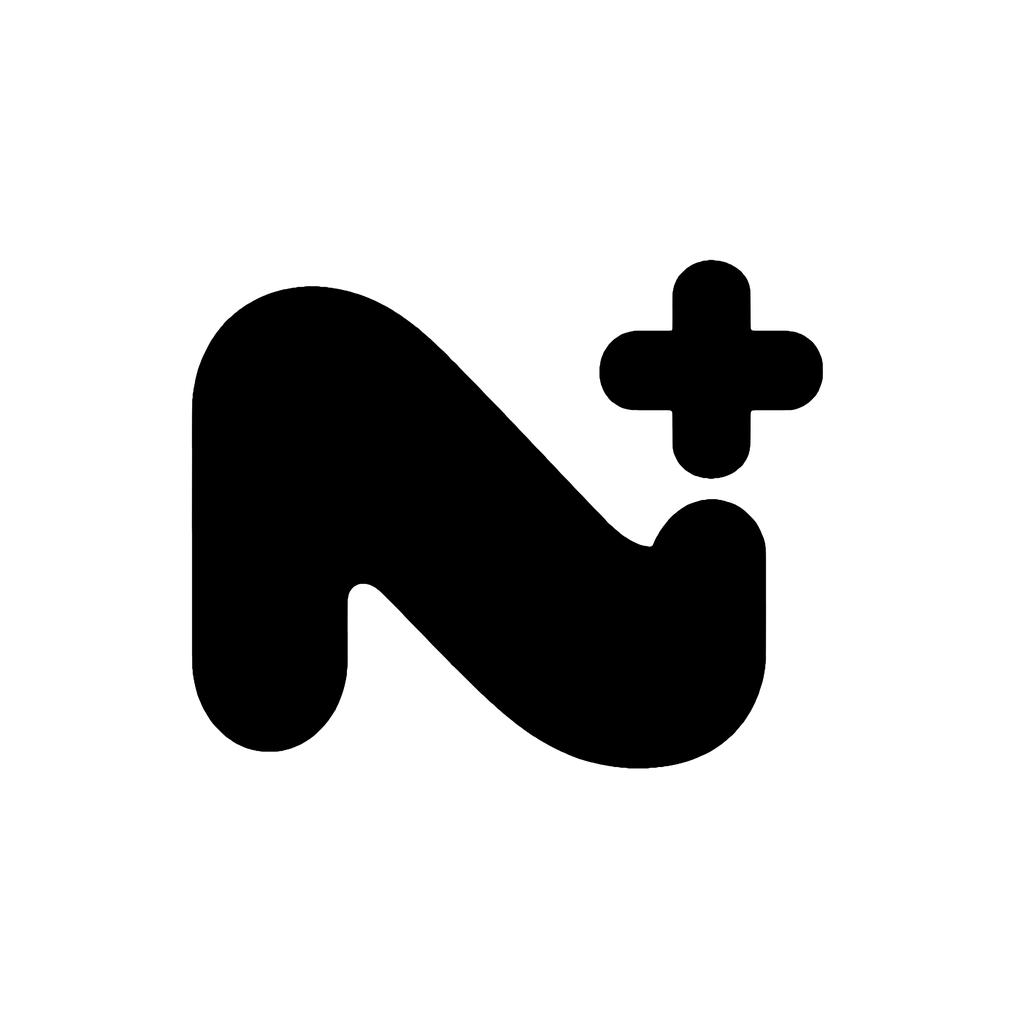
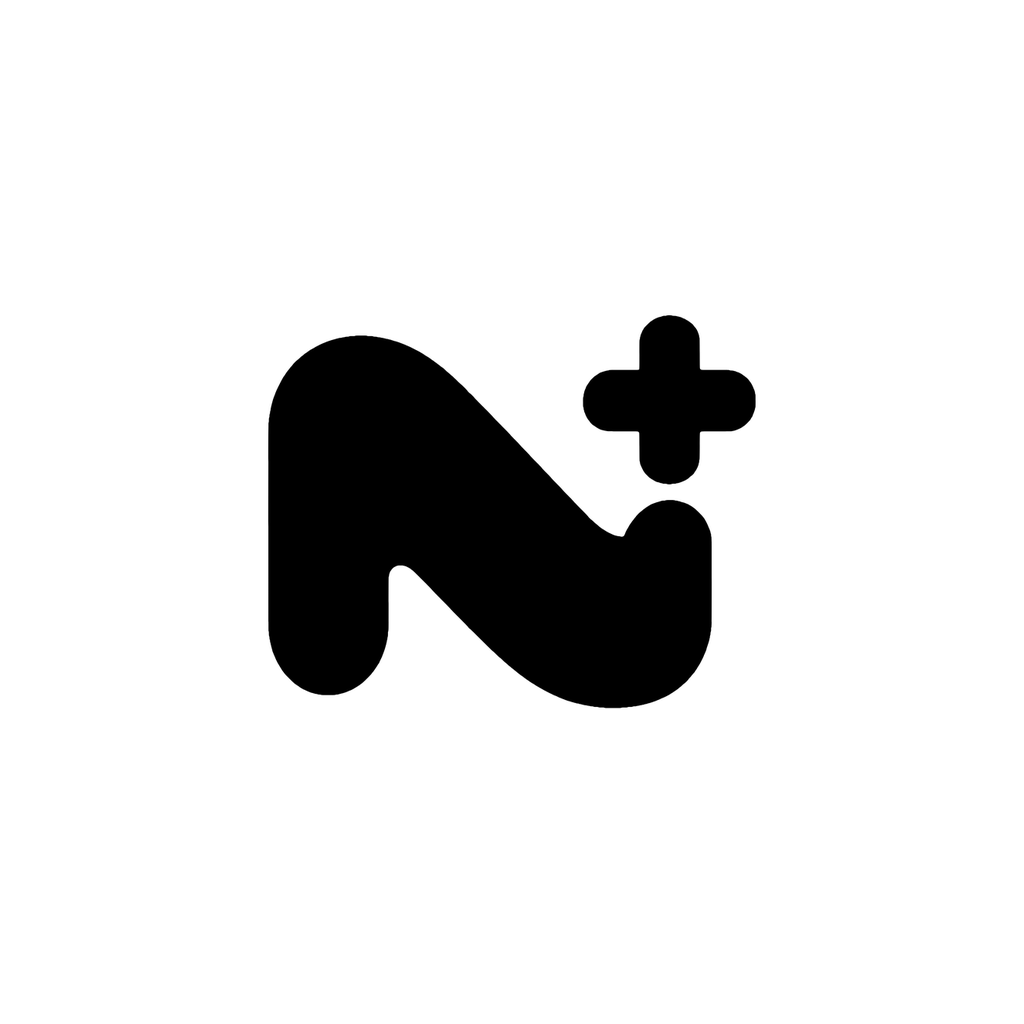
fix(android): fala do onboarding palavra por palavra, barra de abas sem Material You, ícone a 48% (D-064)

Changed region(s): [[0.1875, 0.25, 0.8125, 0.75]]

diff --git a/app/(app)/(tabs)/_layout.tsx b/app/(app)/(tabs)/_layout.tsx
@@ -1,5 +1,24 @@
+import { Platform } from 'react-native';
 import { NativeTabs } from 'expo-router/unstable-native-tabs';
 import { Colors } from '@ui/theme';
+
+/**
+ * Cores do Android. Sem elas o Material 3 pinta a barra com as cores dinâmicas do papel de parede
+ * (Material You) — num aparelho de teste, lilás, fora da paleta do Nero (28/09/2026). No iOS nada
+ * disso é passado: um `backgroundColor` apagaria o Liquid Glass.
+ */
+const ANDROID = Platform.OS === 'android'
+  ? {
+      backgroundColor: Colors.surface,
+      indicatorColor: Colors.surfaceAlt,
+      rippleColor: Colors.surfaceAlt,
+      iconColor: { default: Colors.textMuted, selected: Colors.primary },
+      labelStyle: {
+        default: { color: Colors.textMuted },
+        selected: { color: Colors.primary },
+      },
+    }
+  : {};
 
 /**
  * Barra de abas nativa (D-022): no iOS 26 o sistema entrega Liquid Glass, ícone ativo em
@@ -18,7 +37,7 @@ import { Colors } from '@ui/theme';
  */
 export default function TabsLayout() {
   return (
-    <NativeTabs tintColor={Colors.primary} minimizeBehavior="never">
+    <NativeTabs tintColor={Colors.primary} minimizeBehavior="never" {...ANDROID}>
       <NativeTabs.Trigger name="index">
         <NativeTabs.Trigger.Icon sf={{ default: 'house', selected: 'house.fill' }} md="home" />
         <NativeTabs.Trigger.Label>Início</NativeTabs.Trigger.Label>

diff --git a/src/modules/onboarding/FalaNero.tsx b/src/modules/onboarding/FalaNero.tsx
@@ -105,7 +105,9 @@ export function FalaNero({ linhaPequena, fala, onTerminou, completar, onProgress
         transform: [{ translateY: transicao.interpolate({ inputRange: [0, 1], outputRange: [4, 0] }) }],
       }]}>
         {palavras.map((p, i) => (
-          <Text key={i} style={{ opacity: i < mostradas ? 1 : 0.18 }}>{p}{i < palavras.length - 1 ? ' ' : ''}</Text>
+          <Text key={i} style={i < mostradas ? undefined : encolhida ? styles.apagadaEncolhida : styles.apagada}>
+            {p}{i < palavras.length - 1 ? ' ' : ''}
+          </Text>
         ))}
       </Animated.Text>
     </View>
@@ -119,4 +121,8 @@ const styles = StyleSheet.create({
   fala: { fontFamily: 'Poppins-Bold' },
   grande: { fontSize: 26, lineHeight: 33, color: Colors.primary },
   encolhida: { fontSize: 18, lineHeight: 24, color: Colors.textMuted },
+  // Palavra ainda não dita: a cor final com 18% de alfa (2E). Não usar `opacity` — no Android um <Text>
+  // dentro de outro vira trecho do mesmo texto e ignora `opacity`, e a frase aparecia inteira de uma vez.
+  apagada: { color: `${Colors.primary}2E` },
+  apagadaEncolhida: { color: `${Colors.textMuted}2E` },
 });

diff --git a/docs/nero/02-DECISOES.md b/docs/nero/02-DECISOES.md
@@ -780,6 +780,27 @@ Junto: `envolverRaiz` só aplica o `Sentry.wrap` quando o Sentry foi iniciado, o
 - **Ritmo por tela** (`ritmo` no roteiro): tela 5 com 1,1× por palavra, 0,65 s entre as falas, cartões em 0,48 s e junção em 3,8 s; tela 6 com 1,2× e 0,9 s, notificações em 0,6 s. (Ajustado em três rodadas: a primeira, 1,5× e 1,3 s, ficou lenta demais; em 27/09 o Murilo pediu a tela 5 um pouco mais rápida.) **Na tela 5 o botão só aparece quando a junção no relatório termina.**
 - **Terceira rodada (26/09):** na tela 6, exame e água viraram falas separadas ("Eu te lembro de marcar seu exame." e "Eu te lembro de tomar água.", com o "te" para o Nero não parecer falar de si), uma notificação por fala; na tela 5 entrou "E muito mais." depois de "Suas medicações.", para deixar claro que não é só isso. Na tela 6, pelo mesmo motivo, "E do que mais você precisar." depois da água (palavra diferente para não repetir o "muito mais").
 - **Final:** "E te ajudo com muito mais!" (encolhe) antes de "Pronto{, nome}! Agora é só criar sua conta.", para dizer que o app faz mais do que as três demonstrações.
+
+### D-064 — Três ajustes do primeiro teste no Android — 28/09/2026
+**O Murilo testou o build Android (versionCode 2, teste interno) num aparelho e apontou três problemas.**
+
+1. **As falas do onboarding apareciam inteiras de uma vez.** Causa: cada palavra é um `<Text>` dentro do
+   `<Text>` da frase, e no Android esses trechos ignoram `opacity` (viram parte do mesmo texto). No iOS
+   funciona. **Correção:** a palavra ainda não dita recebe a cor final com 18% de alfa (`#0f2d632E`; na fala
+   encolhida, o cinza com o mesmo alfa), em vez de `opacity`. Visualmente igual no iPhone
+   (`src/modules/onboarding/FalaNero.tsx`).
+2. **Barra de abas lilás e pesada.** Causa: sem cor definida, o Material 3 usa as cores dinâmicas do papel de
+   parede (Material You). **Correção, só no Android:** fundo branco (`surface`), destaque da aba ativa em
+   `surfaceAlt`, ícone e rótulo ativos em marinho e inativos em `textMuted`. No iOS nada muda — um
+   `backgroundColor` apagaria o Liquid Glass (`app/(app)/(tabs)/_layout.tsx`). A altura é a do Material 3 e
+   não tem ajuste no `NativeTabs`; reavaliar depois de ver com as cores certas.
+3. **Ícone encostado na borda.** A 62% (§5 de `design/2026-09-24-icone-app.md`), a máscara em círculo cortava a
+   borda esquerda do N e o "+" encostava. Painel com 62 / 54 / 48% nas três máscaras e no tamanho real.
+   **Escolha do Murilo:** tela inicial a **48%** (`adaptive-icon.png` e `adaptive-icon-mono.png`); **ícone da loja
+   fica como está** (76%, `loja/icone-play-512.png`). O ícone do iOS não muda.
+
+**Falta ver no aparelho:** os três só aparecem num build Android novo (a barra nativa e o ícone não existem no
+Expo Go). Entram no próximo lote.
 ---
 
 ## Decisões clínicas (protocolos adotados)

diff --git a/docs/nero/design/2026-09-24-icone-app.md b/docs/nero/design/2026-09-24-icone-app.md
@@ -159,6 +159,12 @@ cor — **o alfa vem do vetor, a cor vem do PNG original, intocada.**
 Uma troca foi feita e **desfeita**: `simbolo-nero.png`, a marca dentro do app. Eu havia trocado pela
 versão sem franjas, o Murilo pediu para voltar, e o arquivo foi restaurado byte a byte.
 
+### Atualização de 28/09: tela inicial do Android a 48%
+
+No aparelho, os 62% ficaram no limite: o círculo cortava a borda esquerda do N e o "+" encostava.
+O Murilo escolheu **48%** para o `adaptive-icon.png` e o mono, e manteve o ícone da loja em 76%
+(D-064). Os arquivos a 62% ficaram em `scratchpad/icone-android/`.
+
 ## 6. Decisão anterior, substituída acima
 
 O Murilo pediu a capa da App Store. Eu abri uma frente que ele não pediu — as camadas do iOS 26 — e

diff --git a/docs/nero/PENDENCIAS.md b/docs/nero/PENDENCIAS.md
@@ -76,6 +76,9 @@
 
 ### Teste no aparelho
 
+- [ ] **Conferir no próximo build Android os três ajustes da D-064:** a fala do onboarding aparecendo palavra por
+      palavra, a barra de abas branca sem o lilás (e se a altura ainda incomoda) e o ícone a 48% na tela inicial.
+
 - [x] ~~Gerar o build 3.~~ **Feito em 26/09:** build 3 (1.0.0), canal `production`, commit `76d93af`, pasta `ios/`
       apagada antes (agora no `.gitignore`). Enviado ao TestFlight pela EAS (`ascAppId` no `eas.json`). É o primeiro
       com atualização pelo ar, Sentry, termos/consentimento e login Apple/Google.
